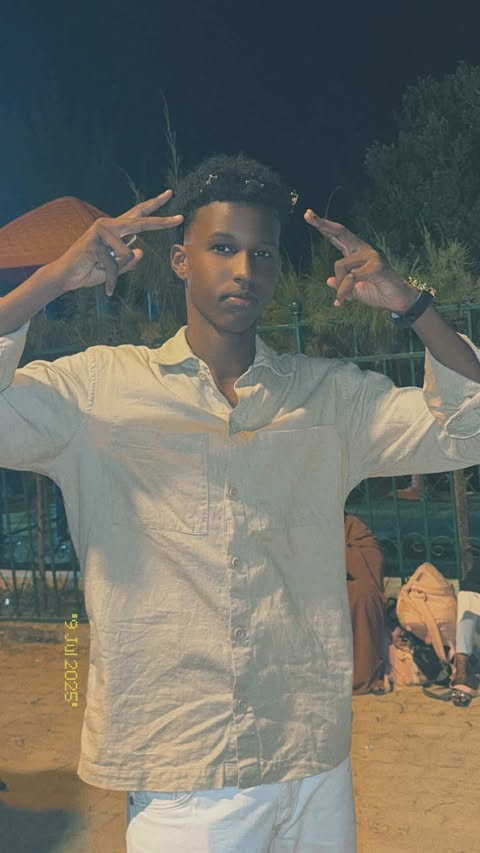
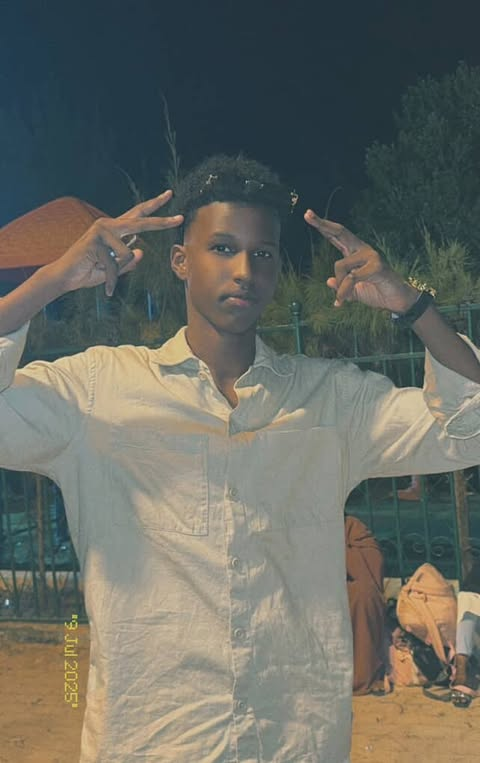
2nd commit

diff --git a/about.html b/about.html
@@ -68,6 +68,11 @@
                             <div ><img class="team-avatar" src="hassan.jpg" alt=""></div>
                             <h4>Hassan</h4>
                             <p>Technical Director</p>
+                        </div> 
+                         <div class="team-member">
+                            <div ><img class="team-avatar" src="jeyzii.jpg" alt=""></div>
+                            <h4>Cumar</h4>
+                            <p>General inspector&tester</p>
                         </div>  
                 </div>
             </div>

diff --git a/style.css b/style.css
@@ -286,8 +286,8 @@
         }
 
         .team-avatar {
-            width: 80px;
-            height: fit-content;
+            width: 100px;
+            height: 100px;
             background: #232f3e;
             border-radius: 50%;
             margin: 0 auto 15px;
@@ -297,6 +297,7 @@
             color: white;
             font-size: 24px;
             font-weight: bold;
+            object-fit: cover;
         }
 
         .contact-content {
